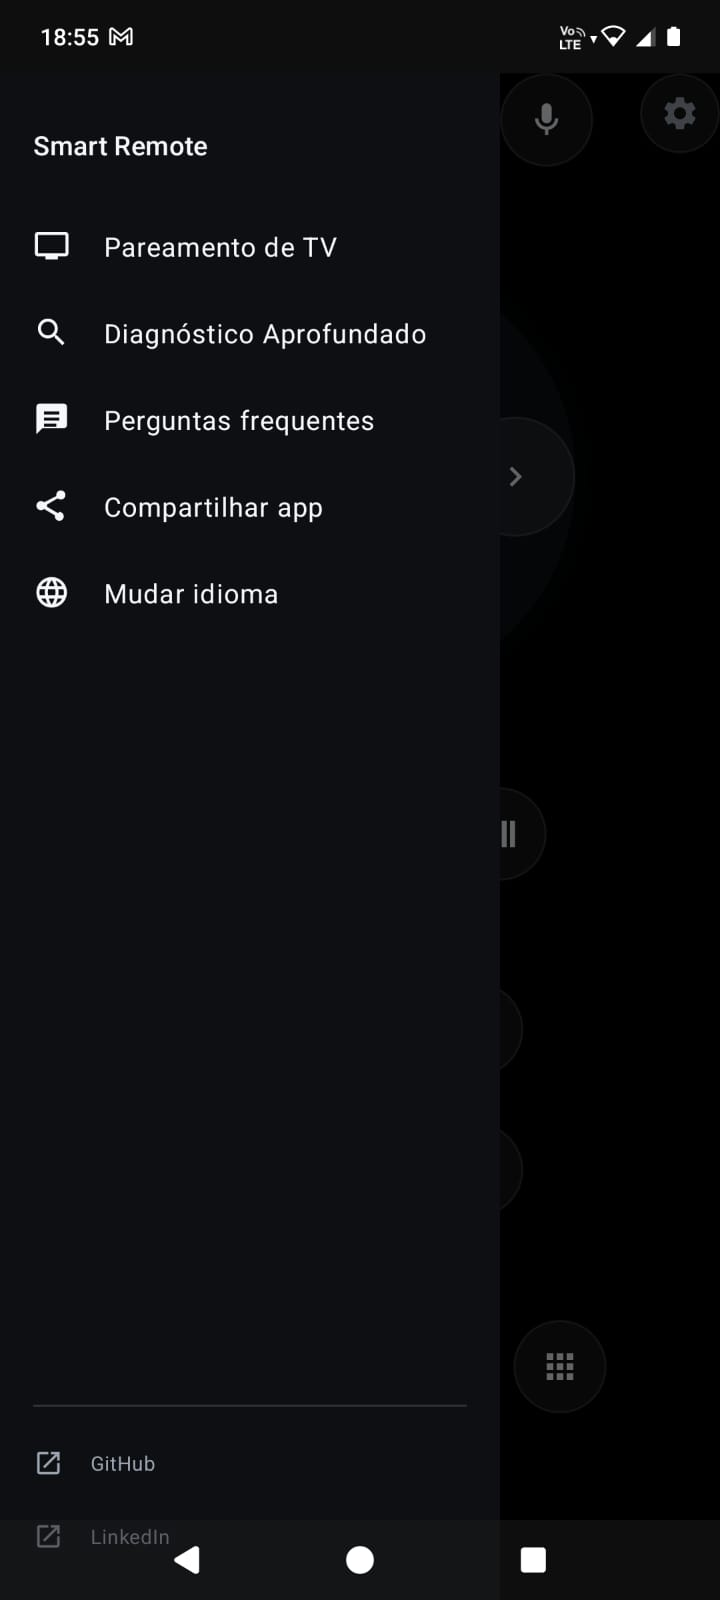
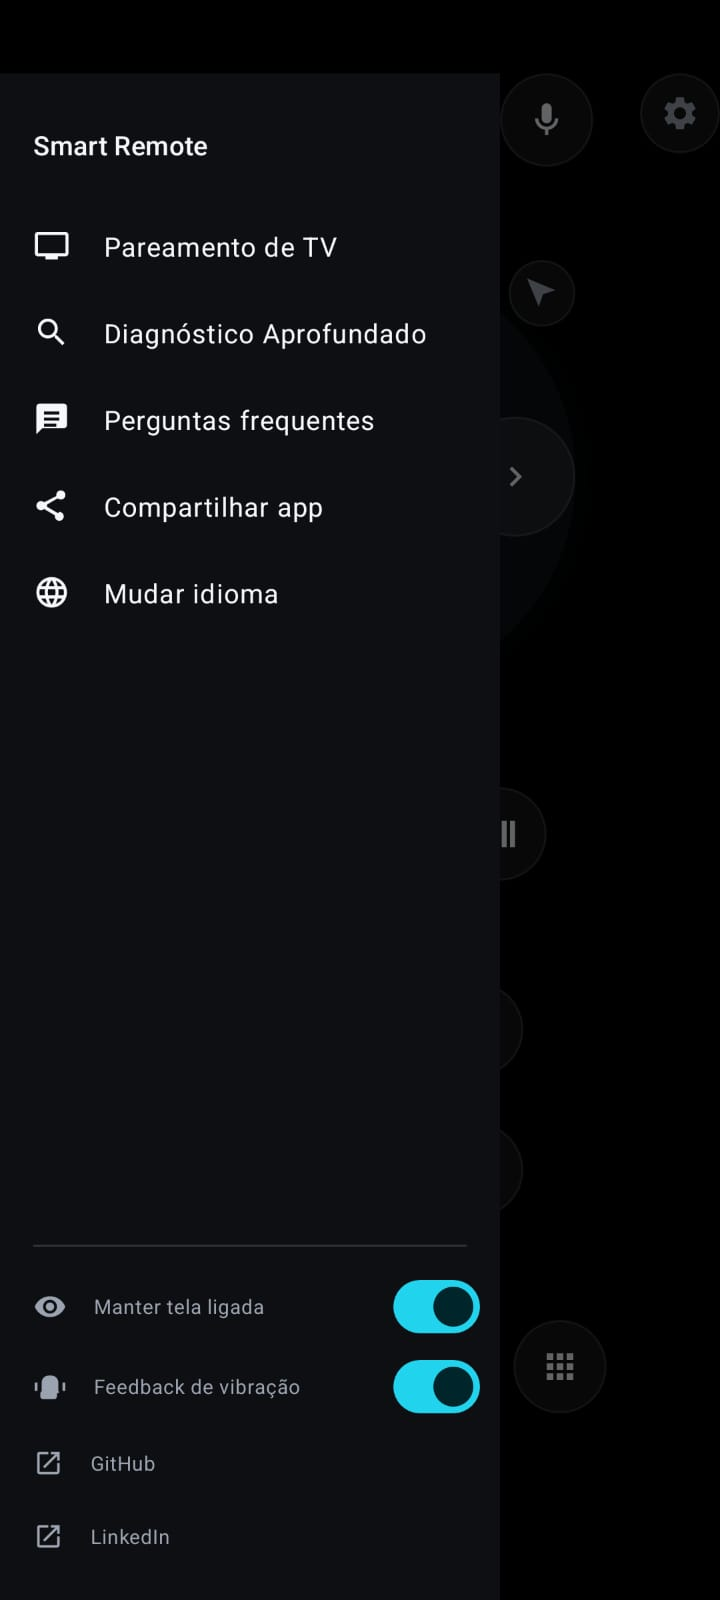
v0.9.5 - add botões no menu lateral (tela e vibração)
Foi adicionado dois botões no menu lateral (de ativação liga e desliga), um com a função de manter a tela do app sempre com a tela do dispositivo ligada e outro com a função de dar feedback de vibração para o usuário.

diff --git a/app/src/main/java/com/example/smartremote/MainActivity.kt b/app/src/main/java/com/example/smartremote/MainActivity.kt
@@ -10,6 +10,7 @@ import android.util.Log
 import android.view.HapticFeedbackConstants
 import android.view.MotionEvent
 import android.view.View
+import android.view.WindowManager
 import android.view.animation.LinearInterpolator
 import android.widget.Toast
 import androidx.activity.OnBackPressedCallback
@@ -35,6 +36,7 @@ import com.example.smartremote.ui.RemoteKeypadBottomSheet
 import com.example.smartremote.ui.TextInputBottomSheet
 import com.example.smartremote.util.Constants
 import com.example.smartremote.util.LanguageManager
+import com.example.smartremote.util.UserPreferences
 import java.util.Locale
 
 /**
@@ -153,6 +155,7 @@ class MainActivity : AppCompatActivity() {
         setContentView(binding.root)
 
         enableFullscreenMode()
+        applyKeepScreenOnPreference() // *** NOVO - v0.9.5 ***
         setupClickListeners()
         setupDiagnosticPanel()
         setupDrawer() // *** NOVO - v0.9.3, item 3 ***
@@ -190,6 +193,21 @@ class MainActivity : AppCompatActivity() {
         insetsController.hide(WindowInsetsCompat.Type.systemBars())
         insetsController.systemBarsBehavior =
             WindowInsetsControllerCompat.BEHAVIOR_SHOW_TRANSIENT_BARS_BY_SWIPE
+    }
+
+    /**
+     * *** NOVO - v0.9.5 (configurações de auxílio ao usuário) ***: aplica
+     * FLAG_KEEP_SCREEN_ON conforme a preferência salva (padrão `true` -
+     * ver [UserPreferences.isKeepScreenOnEnabled]). Chamado em onCreate() e
+     * de novo a cada toque no toggle do drawer (ver setupDrawer()), pra
+     * refletir a mudança imediatamente sem precisar reabrir a tela.
+     */
+    private fun applyKeepScreenOnPreference() {
+        if (UserPreferences.isKeepScreenOnEnabled(this)) {
+            window.addFlags(WindowManager.LayoutParams.FLAG_KEEP_SCREEN_ON)
+        } else {
+            window.clearFlags(WindowManager.LayoutParams.FLAG_KEEP_SCREEN_ON)
+        }
     }
 
     /** Centraliza a configuração de todos os cliques do controle remoto. */
@@ -303,6 +321,25 @@ class MainActivity : AppCompatActivity() {
             itemLanguage.setOnClickListener {
                 closeDrawer()
                 showLanguagePicker()
+            }
+            // *** NOVO - v0.9.5 (configurações de auxílio ao usuário) ***:
+            // switches inicializados com o valor salvo, e o clique é na
+            // LINHA inteira (o MaterialSwitch em si é não-clicável, ver
+            // drawer_content.xml) - NÃO fecha o drawer, diferente dos
+            // itens acima, pra dar pra mexer nos dois toggles em
+            // sequência sem reabrir o menu.
+            switchKeepScreenOn.isChecked = UserPreferences.isKeepScreenOnEnabled(this@MainActivity)
+            itemKeepScreenOn.setOnClickListener {
+                val enabled = !switchKeepScreenOn.isChecked
+                switchKeepScreenOn.isChecked = enabled
+                UserPreferences.setKeepScreenOnEnabled(this@MainActivity, enabled)
+                applyKeepScreenOnPreference()
+            }
+            switchVibrationFeedback.isChecked = UserPreferences.isVibrationEnabled(this@MainActivity)
+            itemVibrationFeedback.setOnClickListener {
+                val enabled = !switchVibrationFeedback.isChecked
+                switchVibrationFeedback.isChecked = enabled
+                UserPreferences.setVibrationEnabled(this@MainActivity, enabled)
             }
             itemGithub.setOnClickListener {
                 closeDrawer()
@@ -583,7 +620,6 @@ class MainActivity : AppCompatActivity() {
     }
 
     private fun toggleCursorMode() {
-        triggerHapticFeedback(binding.btnCursorToggle)
         setCursorModeActive(!isCursorModeActive)
     }
 
@@ -597,6 +633,12 @@ class MainActivity : AppCompatActivity() {
      */
     private fun setCursorModeActive(active: Boolean) {
         isCursorModeActive = active
+        // *** AJUSTE - v0.9.5 ***: vibração só ao ENTRAR no modo cursor,
+        // não ao sair - pedido explícito, pra não competir com a vibração
+        // do clique dentro do modo cursor nem virar ruído a cada toggle.
+        if (active) {
+            triggerHapticFeedback(binding.btnCursorToggle)
+        }
         binding.dpadButtonsGroup.visibility = if (active) View.GONE else View.VISIBLE
         binding.cursorTouchpad.visibility = if (active) View.VISIBLE else View.GONE
         binding.cursorTouchpadHint.visibility = if (active) View.VISIBLE else View.GONE
@@ -986,7 +1028,9 @@ class MainActivity : AppCompatActivity() {
      * vibração (ou ela estiver desativada), performHapticFeedback apenas
      * retorna false, sem lançar exceção — nada precisa ser feito nesse caso.
      */
+    /** *** NOVO - v0.9.5 ***: respeita o toggle "Feedback de vibração" do drawer (ver UserPreferences.isVibrationEnabled) - único ponto de saída pra TODAS as vibrações do app, então desligar aqui desliga em todo lugar de uma vez. */
     private fun triggerHapticFeedback(view: View) {
+        if (!UserPreferences.isVibrationEnabled(this)) return
         view.performHapticFeedback(HapticFeedbackConstants.VIRTUAL_KEY)
     }
 

diff --git a/app/src/main/java/com/example/smartremote/util/UserPreferences.kt b/app/src/main/java/com/example/smartremote/util/UserPreferences.kt
@@ -1,0 +1,40 @@
+package com.example.smartremote.util
+
+import android.content.Context
+
+/**
+ * *** NOVO - v0.9.5 (configurações de auxílio ao usuário) ***
+ *
+ * Dois toggles simples, direto no rodapé do menu lateral (não uma tela de
+ * Configurações completa - essa fica pra mais pra frente, quando tiver
+ * itens de verdade tipo tamanho/posição dos botões e permissões). Mesmo
+ * padrão de persistência já usado em [LanguageManager]: SharedPreferences
+ * dedicado, lido/escrito sempre com o valor efetivo (sem cache em
+ * memória), já que aqui não há nenhum custo de performance que
+ * justifique isso.
+ */
+object UserPreferences {
+
+    private const val PREFS_NAME = "user_assist_prefs"
+    private const val KEY_KEEP_SCREEN_ON = "keep_screen_on"
+    private const val KEY_VIBRATION_ENABLED = "vibration_enabled"
+
+    /** Padrão `true` - esperado de um app de controle remoto usado ativamente não deixar a tela apagar sozinha no meio do uso. */
+    fun isKeepScreenOnEnabled(context: Context): Boolean =
+        prefs(context).getBoolean(KEY_KEEP_SCREEN_ON, true)
+
+    fun setKeepScreenOnEnabled(context: Context, enabled: Boolean) {
+        prefs(context).edit().putBoolean(KEY_KEEP_SCREEN_ON, enabled).apply()
+    }
+
+    /** Padrão `true` - mesmo comportamento que o app já tinha antes deste toggle existir (feedback de vibração sempre ligado). */
+    fun isVibrationEnabled(context: Context): Boolean =
+        prefs(context).getBoolean(KEY_VIBRATION_ENABLED, true)
+
+    fun setVibrationEnabled(context: Context, enabled: Boolean) {
+        prefs(context).edit().putBoolean(KEY_VIBRATION_ENABLED, enabled).apply()
+    }
+
+    private fun prefs(context: Context) =
+        context.getSharedPreferences(PREFS_NAME, Context.MODE_PRIVATE)
+}

diff --git a/README.md b/README.md
@@ -23,22 +23,20 @@ dia a dia, não um protótipo de estudo.
       <br/><sub>Controle remoto + adições novas</sub>
     </td>
     <td align="center" width="25%">
+      <img src="screenshots/tela-principal-cursor.jpeg" width="100%" alt="Menu com pad ativo"/>
+      <br/><sub>Menu principla com o modo cursor ativo</sub>
+    </td>
+    <td align="center" width="25%">
       <img src="screenshots/menu-lateral.jpeg" width="100%" alt="Tela de busca e pareamento de TVs"/>
       <br/><sub>Painel lateral</sub>
-    </td>
-    <td align="center" width="25%">
-      <img src="screenshots/diagnostico-aprofundado.jpeg" width="100%" alt="Painel de diagnóstico de conexão"/>
-      <br/><sub>Painel de diagnóstico aprofundado</sub>
-    </td>
-    <td align="center" width="25%">
-      <img src="screenshots/faq.jpeg" width="100%" alt="Painel de diagnóstico de conexão"/>
-      <br/><sub>Tela de FAQ</sub>
     </td>
   </tr>
 </table>
 
 
-> **v0.9.4.2** — Correção do play/pause (toggle real)
+> **v0.9.4.2** — Botão de manter tela ligada — ligado por padrão, não disliga a tela do app.
+>
+>Botão de feedback de vibração — liga/desliga geral, ligado por padrão, ele quando ativo faz os botões do controle terem vibração tatica
 
 ## Funcionalidades
 
@@ -184,6 +182,36 @@ Princípios que o projeto segue (e que qualquer contribuição deve manter):
   protocolo, passos numerados de um fluxo de pareamento, log completo de
   eventos) pertence ao Diagnóstico Aprofundado, tela separada e acessível
   pelo menu lateral.
+
+## Novidades da v0.9.5
+
+### 1. Configurações de auxílio ao usuário (no rodapé do drawer)
+
+Dois toggles novos no menu lateral, logo acima dos links de GitHub/LinkedIn
+— não uma tela de Configurações completa (essa fica pra mais pra frente,
+quando tiver itens de verdade, tipo tamanho/posição dos botões e
+permissões):
+
+- **Manter tela ligada** (`FLAG_KEEP_SCREEN_ON`) — ligado por padrão, já
+  que é o esperado de um app de controle remoto usado ativamente não
+  deixar a tela apagar sozinha no meio do uso.
+- **Feedback de vibração** — liga/desliga geral, ligado por padrão (mesmo
+  comportamento que o app já tinha antes deste toggle existir). Passa a
+  ser o único ponto de saída de toda vibração do app
+  (`MainActivity.triggerHapticFeedback`), então desligar aqui desliga em
+  todo lugar de uma vez.
+
+Os dois persistem em SharedPreferences (mesmo padrão já usado por
+`LanguageManager`) e o clique é na linha inteira, não fecha o drawer -
+dá pra mexer nos dois em sequência sem reabrir o menu.
+
+### 2. Vibração ao entrar no modo cursor
+
+Uma vibração curta agora acontece ao ATIVAR o modo cursor (não durante o
+arrasto, nem ao sair dele) - decisão consciente: vibração contínua
+durante um gesto de arrastar tende a incomodar mais do que ajudar, e
+vibrar ao sair competiria com a vibração do próprio clique dentro do modo
+cursor.
 
 ## Novidades da v0.9.4.2
 
@@ -570,6 +598,17 @@ quebrar essa paridade.
 - [x] ~~Modo cursor/mouse (Samsung e LG)~~ — feito na v0.9.4. Android
       TV/Google TV ficou de fora por falta de suporte documentado no
       protocolo (ver "Novidades da v0.9.4").
+- [x] ~~Toggle real de play/pause (Samsung e LG)~~ — feito na v0.9.4.2.
+- [x] ~~Configurações de auxílio ao usuário (tela ligada, vibração)~~ —
+      feito na v0.9.5, direto no rodapé do drawer.
+- [ ] Tela de Configurações completa (tamanho/posição dos botões, quais
+      aparecem na tela, permissões etc.) — os dois toggles da v0.9.5
+      ficaram só no drawer de propósito; isso vira uma tela própria
+      quando tiver itens suficientes pra justificar.
+- [ ] Edição de temática do controle (Neon, Anos 2000, Básico etc.) —
+      escopo grande (paleta completa por tema + troca em runtime), rascunho
+      inicial pra v0.9.6, mas provavelmente precisa de documento de escopo
+      próprio antes de começar, como o do modo cursor.
 - [ ] Ícones reais dos apps de streaming na grade de apps (hoje sem ícone
       de marca — usar os assets oficiais de brand kit de cada serviço,
       respeitando os termos de uso de cada um).
